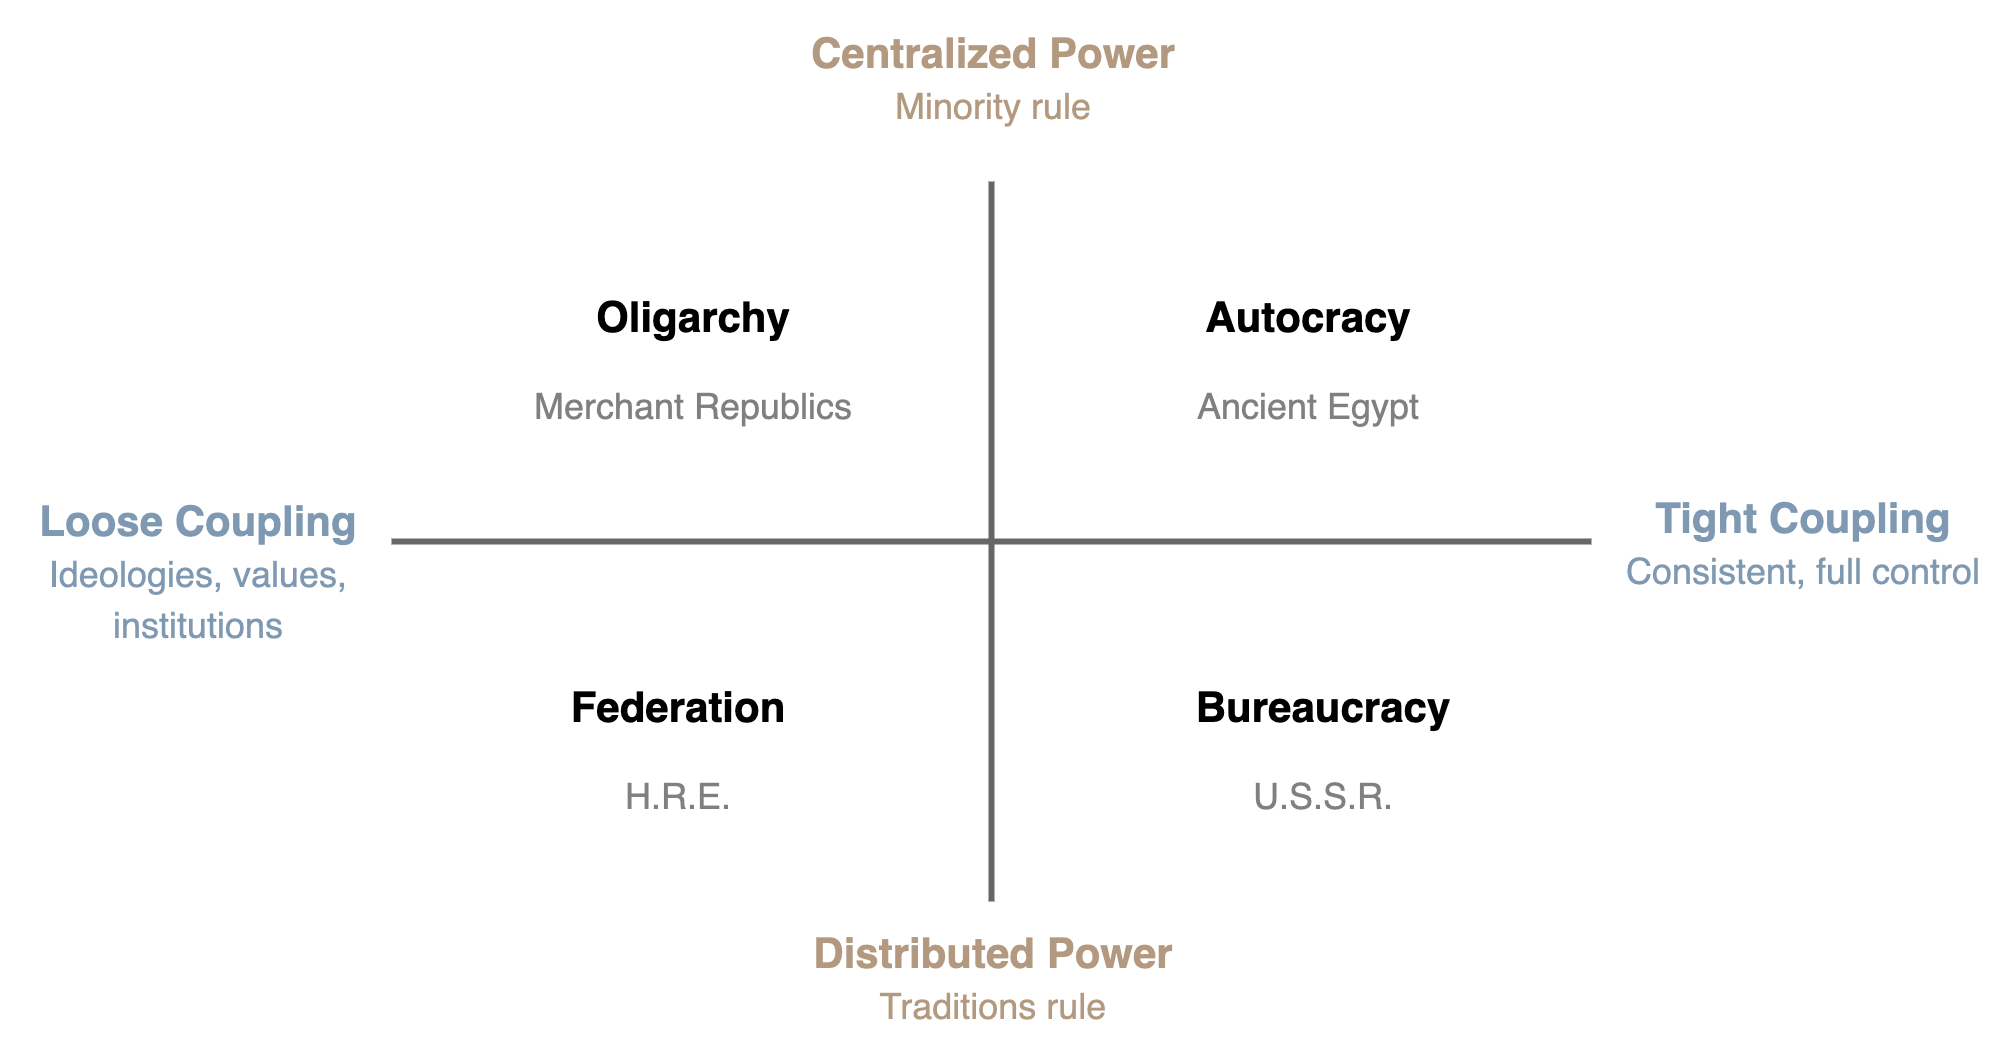
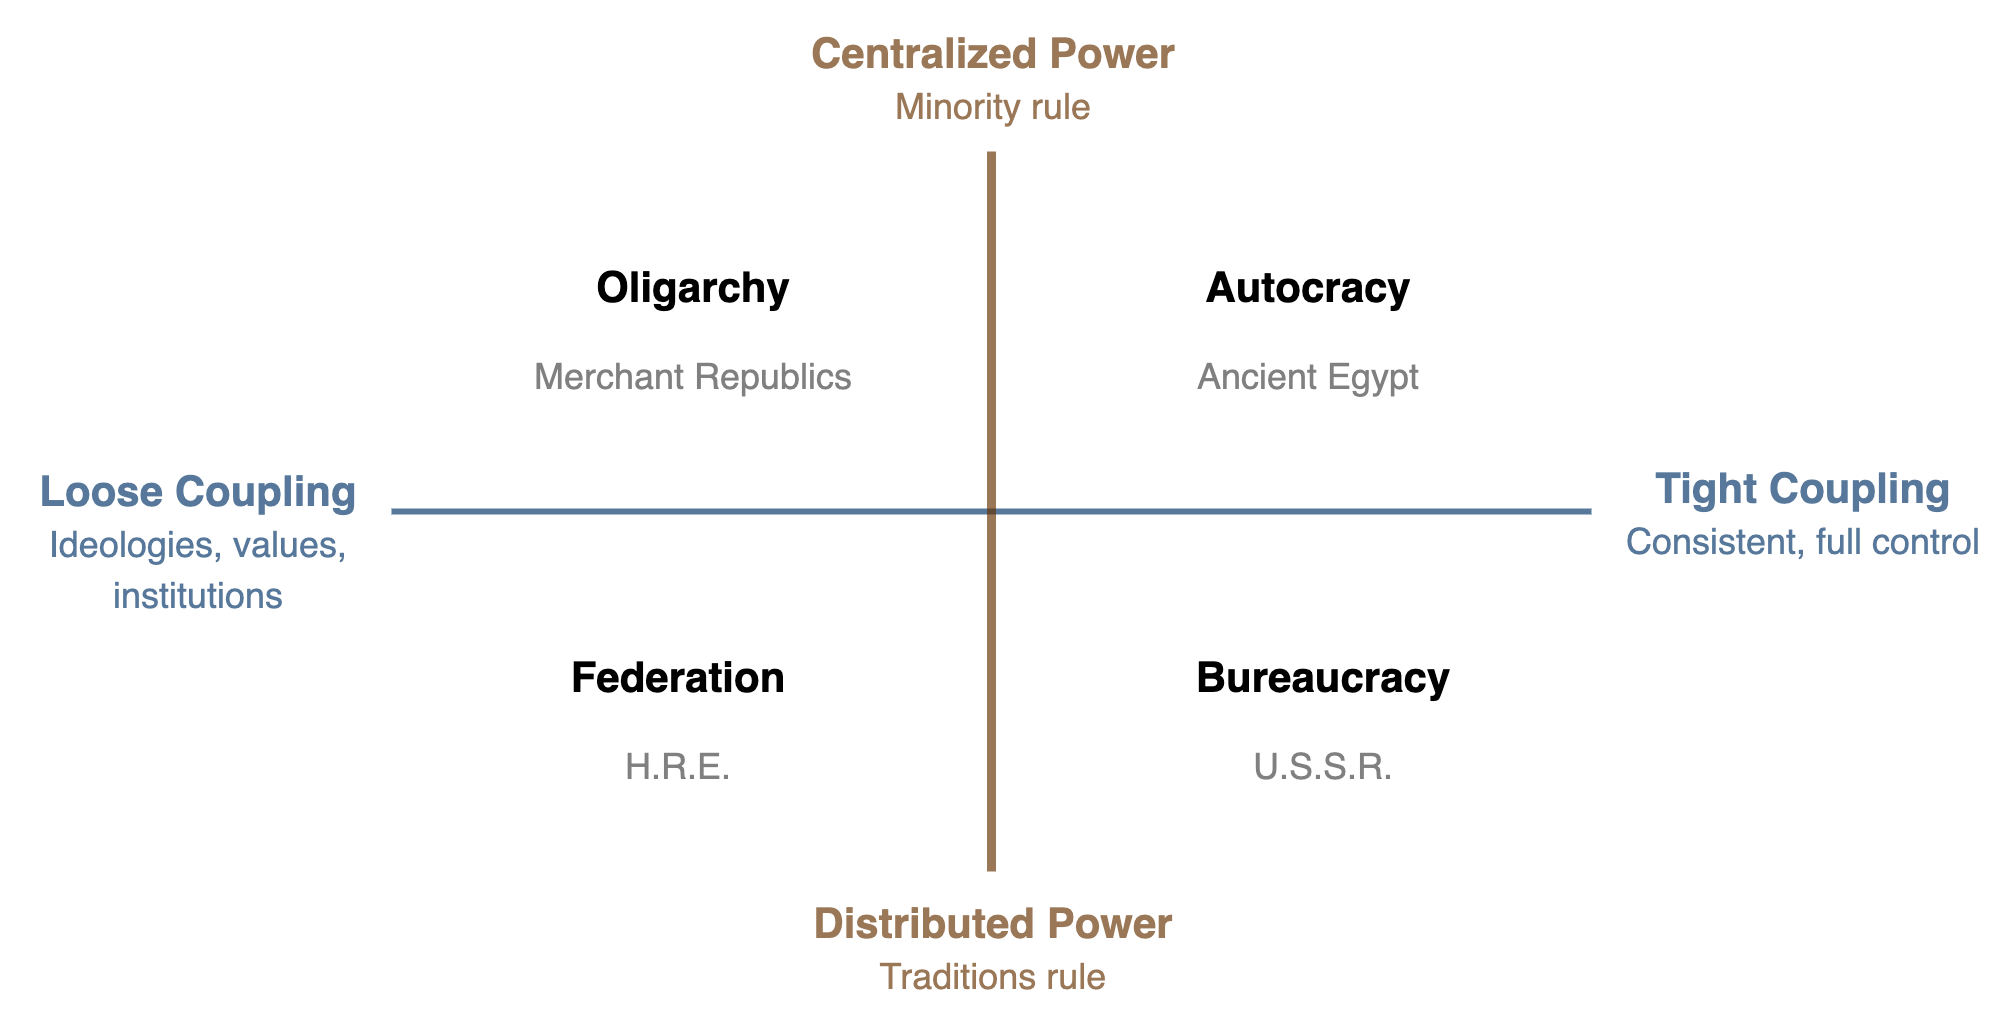
add coupling page

diff --git a/alignment/coupling.md b/alignment/coupling.md
@@ -1,0 +1,52 @@
+# Horizontal & Vertical Coupling
+
+Coupling is an ambiguous term, relating to alignment, autonomy, cohesion, consistency and (in)dependence. This document presents a model based on two dimensions. See this [blog](https://cutlefish.substack.com/p/tbm-379-vertical-vs-horizontal-org).
+
+- **Vertical**: coupling to "parent" structures. E.g. a manager.
+- **Horizontal**: coupling with "sibblings", e.g. other teams, other team members.
+
+These dimensions roughly translate to centralization and autonomy, respectively.
+
+<table><thead>
+  <tr>
+    <th colspan="2" rowspan="2"></th>
+    <th colspan="2" style="text-align:center;">Horizontal</th>
+  </tr>
+  <tr>
+    <th style="text-align:center;"><strong>Low</strong></th>
+    <th style="text-align:center;"><strong>High</strong></th>
+  </tr></thead>
+<tbody>
+  <tr style="text-align:center;">
+    <td rowspan="2"><strong>Vertical</strong></td>
+    <td><strong>High</strong></td>
+    <td><strong>Command Towers</strong><br>Platform teams</td>
+    <td><strong>Matrix Maze</strong><br>Heavily regulation<br></td>
+  </tr>
+  <tr style="text-align:center;">
+    <td><strong>Low</strong> </td>
+    <td><strong>Franchises</strong><br>Product teams<br></td>
+    <td><strong>Gridlock</strong><br>Functional teams,<br>Committees<br></td>
+  </tr>
+</tbody>
+</table>
+
+<img src="../img/power-coupling-organization-topology.png" alt="power-coupling-organization-topology" style="max-height:24em;" />
+
+
+
+## Governments
+
+The dimensions translate directly to government-type of organizations. See [power](../systems/power.md).
+
+- Vertical coupling: centralization of power.
+- Horizontal coupling: consistency of components. I.e. governments of regions, provinces, cities etc.
+
+|                       | Loose Coupling: Autonomous                                   | Tight Coupling: Consistent                                   |
+| --------------------- | ------------------------------------------------------------ | ------------------------------------------------------------ |
+| **Centralized** Power | **Federation**. Independent kingdoms, connected by shared values, ideologies and institutions. | **Oligarchy**. A ruling elite, but with limited power.       |
+| **Distributed** Power | Totalitarian **bureaucracy**. Distributed power structures. Rules & regulation. Matrix structures. | **Autocracy**. Full centralized, top-down control. One leader, one state, one nation. Everything else bends. |
+
+In this model, a federation can be bureaucratic. A democracy lies between federation and oligarchy. The health of its institutions determind the balance.
+
+<img src="../img/power-centralization-coupling-government.png" alt="power-centralization-coupling-government" style="max-height:26em;" />

diff --git a/systems/power.md b/systems/power.md
@@ -115,7 +115,7 @@ In democracies, parties may co-exist in a symbiotic-like state. One needs other.
 
 ## Government
 
-Governments can be separated along the dimensions centralization and alignment. Centralization is "vertical" coupling an alignment is "horizontal" coupling. This approach produces four quadrants.
+Governments can be separated along the dimensions centralization and alignment. Centralization is "vertical" coupling an alignment is "horizontal" coupling. This approach produces four quadrants. See [coupling](../alignment/coupling.md).
 
 <img src="../img/power-centralization-coupling-government.png" alt="power-centralization-couling-government" style="max-height:24em;" />
 
